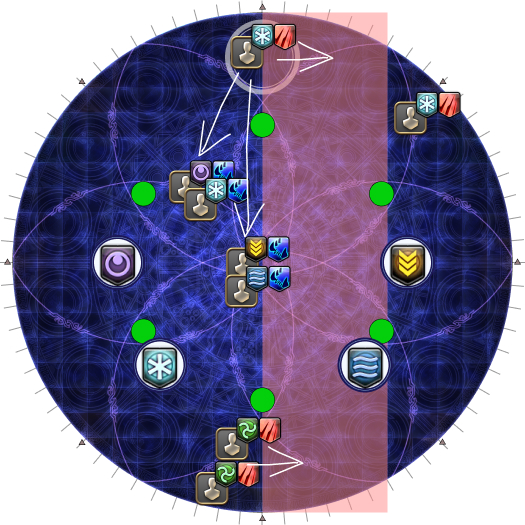
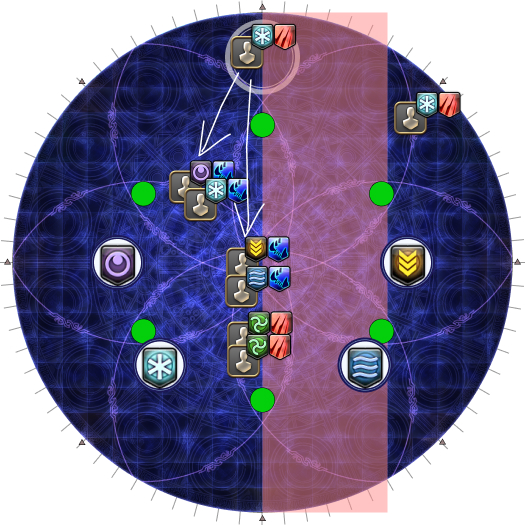
Add Trey's suggestions

Changed region(s): [[0.3657, 0.7924, 0.579, 0.9752], [0.4267, 0.579, 0.579, 0.7314], [0.5486, 0.0914, 0.64, 0.1524]]

diff --git a/_ultimates/fru/04_gaia_and_shiva.md b/_ultimates/fru/04_gaia_and_shiva.md
@@ -68,12 +68,11 @@ and the two bosses begin their first mechanic.
     <td width="50%">
       <p><b>1.</b> Two sets of debuffs come out:</p>
       <ol>
-        <li>Two tank/healers and two DPS each get <em>Refulgent Chain</em>
+        <li>One tank, one healer, and two DPS each get <em>Refulgent Chain</em>
         tethers.</li>
         <li>Two random players get <em>Dark Water III</em>.</li>
       </ol>
       <p>One player will have <em>both</em> tethers <em>and</em> Water.</p>
-      <p>Note who this player is.</p>
     </td>
     <td>
       <img src="{{site.baseurl}}/images/ultimates/fru/04/darklit_01.jpg">
@@ -255,9 +254,6 @@ The party will also get a bunch of debuffs to resolve.
       <p>Keep the red Aero player as the closest player to the edge.</p>
       <p><em>(In this example, the purple tether stretches NW to SE, so the</em>
       Dark Eruption <em>player goes NW, and all other blue players move SE.)</em></p>
-      <ul>
-        <li></li>
-      </ul>
     </td>
     <td>
       <img src="{{site.baseurl}}/images/ultimates/fru/04/crystallize_time_01b.jpg">
@@ -275,7 +271,7 @@ the sea of mechanics.
       <p>The two red Aeros, and all the south-side blue players move into the 
       explosion, and stand at the tip of the "flower petal" decal on the floor.</p>
       <p>The south-side blue players and the red Aero need to <b>stack
-      together, with the red Aero closest to the edge of the arena.</b></p>
+      together closely, with the red Aero closest to the edge of the arena.</b></p>
     </td>
     <td>
       <img src="{{site.baseurl}}/images/ultimates/fru/04/crystallize_time_02.jpg">
@@ -296,6 +292,9 @@ the sea of mechanics.
         side of the arena.</li>
         <li>The two red Aeros step off the flower petal into the south sector.</li>
       </ul>
+      <p>The players getting knocked back by the Aero AoE may want to aim a
+      <em>little</em> towards the East/West instead of directly across to make
+      sure they make it to the upcoming stack in time.</p>
     </td>
     <td>
       <img src="{{site.baseurl}}/images/ultimates/fru/04/crystallize_time_03.jpg">
@@ -352,9 +351,9 @@ the sea of mechanics.
   </tr>
   <tr>
     <td>
-      <p><b>16.</b> Second line AoE resolves.</p>
-      <p>Now that all three pairs of hourglasses have resolved, the blue debuff
-      players now go out to the puddles left behind to cleanse their debuff.</p>
+      <p><b>15.</b> Now that all three pairs of hourglasses have resolved, the
+      blue debuff players now go out to the puddles left behind to cleanse
+      their debuff.</p>
       <p>Each blue player has an assigned puddle to take:</p>
       <ul>
         <li><b>Dark Eruption:</b> Take the <b>West</b> puddle.</li>
@@ -369,7 +368,7 @@ the sea of mechanics.
   </tr>
   <tr>
     <td>
-      <p><b>17.</b> A second line telegraph now appears, this time either 
+      <p><b>16.</b> A second line telegraph now appears, this time either 
       North or South.</p>
       <p><b>Note which side this telegraph started on (North or South).</b></p>
     </td>
@@ -379,7 +378,7 @@ the sea of mechanics.
   </tr>
   <tr>
     <td>
-      <p><b>18.</b> Position yourselves to dodge the second line AoE.</p>
+      <p><b>17.</b> Position yourselves to dodge the second line AoE.</p>
       <p>The objective is to end up in the <em>corner</em> where <em>both</em>
       line AoEs originated from <em>(North-East in this example)</em>.</p>
       <p>At this point, all blue players should have cleansed their debuff.</p>
@@ -390,7 +389,10 @@ the sea of mechanics.
   </tr>
   <tr>
     <td>
-      <p><b>19.</b> Dodge the second horizontal line AoE.</p>
+      <p><b>18.</b> Dodge the second horizontal line AoE.</p>
+      <p>This is the last line AoE you can dodge and still make it to the
+      corner in time for the rewind (barring abilities like <em>Shukuchi</em>
+      or <em>En Avant</em>).</p>
     </td>
     <td>
       <img src="{{site.baseurl}}/images/ultimates/fru/04/crystallize_time_10.jpg">
@@ -398,7 +400,7 @@ the sea of mechanics.
   </tr>
   <tr>
     <td>
-      <p><b>20.</b> Gather together in the corner where both line AoEs 
+      <p><b>19.</b> Gather together in the corner where both line AoEs 
       originated from and start forming up.</p>
       <p><em>(Sprint is </em>very<em> useful here!)</em></p>
     </td>
@@ -408,7 +410,7 @@ the sea of mechanics.
   </tr>
   <tr>
     <td>
-      <p><b>21.</b> Make two groups in the corner.</p>
+      <p><b>20.</b> Make two groups in the corner.</p>
       <ul>
         <li><b>MT, H1, D1, D3:</b> Left-side, facing outside.</li>
         <li><b>ST, H2, D2, D4:</b> Right-side, facing outside.</li>
@@ -428,7 +430,7 @@ the sea of mechanics.
   </tr>
   <tr>
     <td>
-      <p><b>22.</b> After recording your position, spread out for <em>Spirit 
+      <p><b>21.</b> After recording your position, spread out for <em>Spirit 
       Taker</em> on a random player.</p>
       <p><b>Do not spread near the Fragment of Fate!</b></p>
       <ul>
@@ -443,7 +445,7 @@ the sea of mechanics.
   </tr>
   <tr>
     <td>
-      <p><b>23.</b> The rewind resolves, and the Usurper of Frost casts 
+      <p><b>22.</b> The rewind resolves, and the Usurper of Frost casts 
       <em>Hallowed Wings</em> from the side where the first line AoE came from.</p>
       <ul>
         <li>The party gets knocked back half the arena.</li>
@@ -458,7 +460,7 @@ the sea of mechanics.
   </tr>
   <tr>
     <td>
-      <p><b>24.</b> The second <em>Hallowed Wings</em> resolves, this time from
+      <p><b>23.</b> The second <em>Hallowed Wings</em> resolves, this time from
       North or South (wherever the second line AoE came from).</p>
     </td>
     <td>
